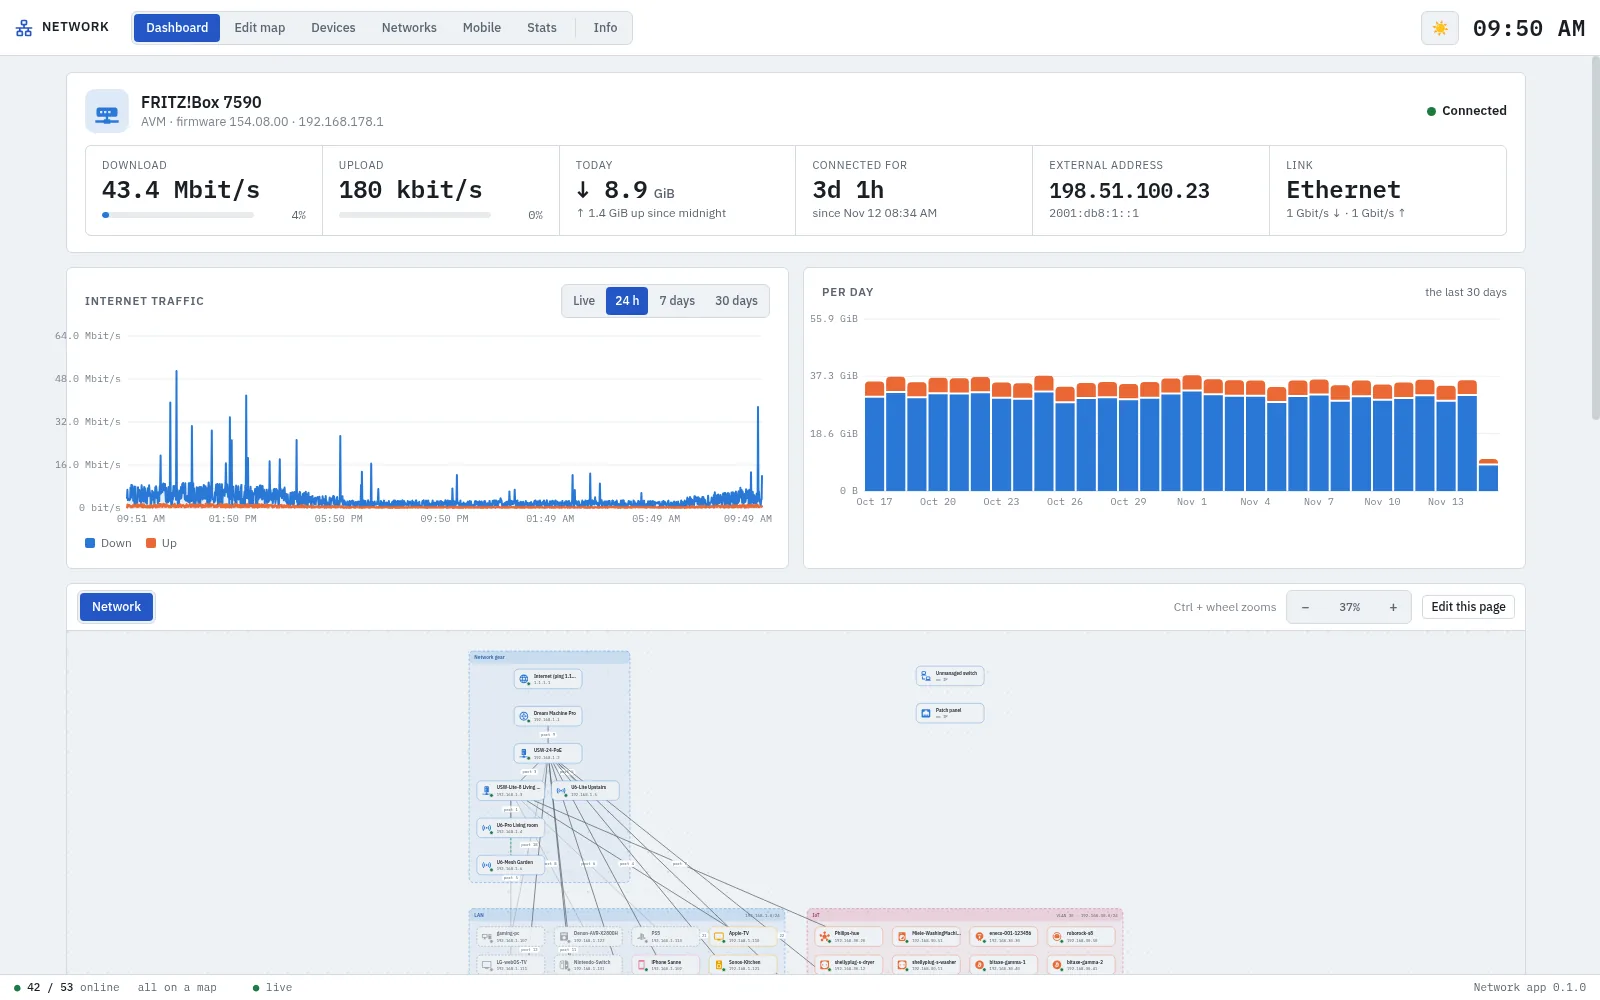
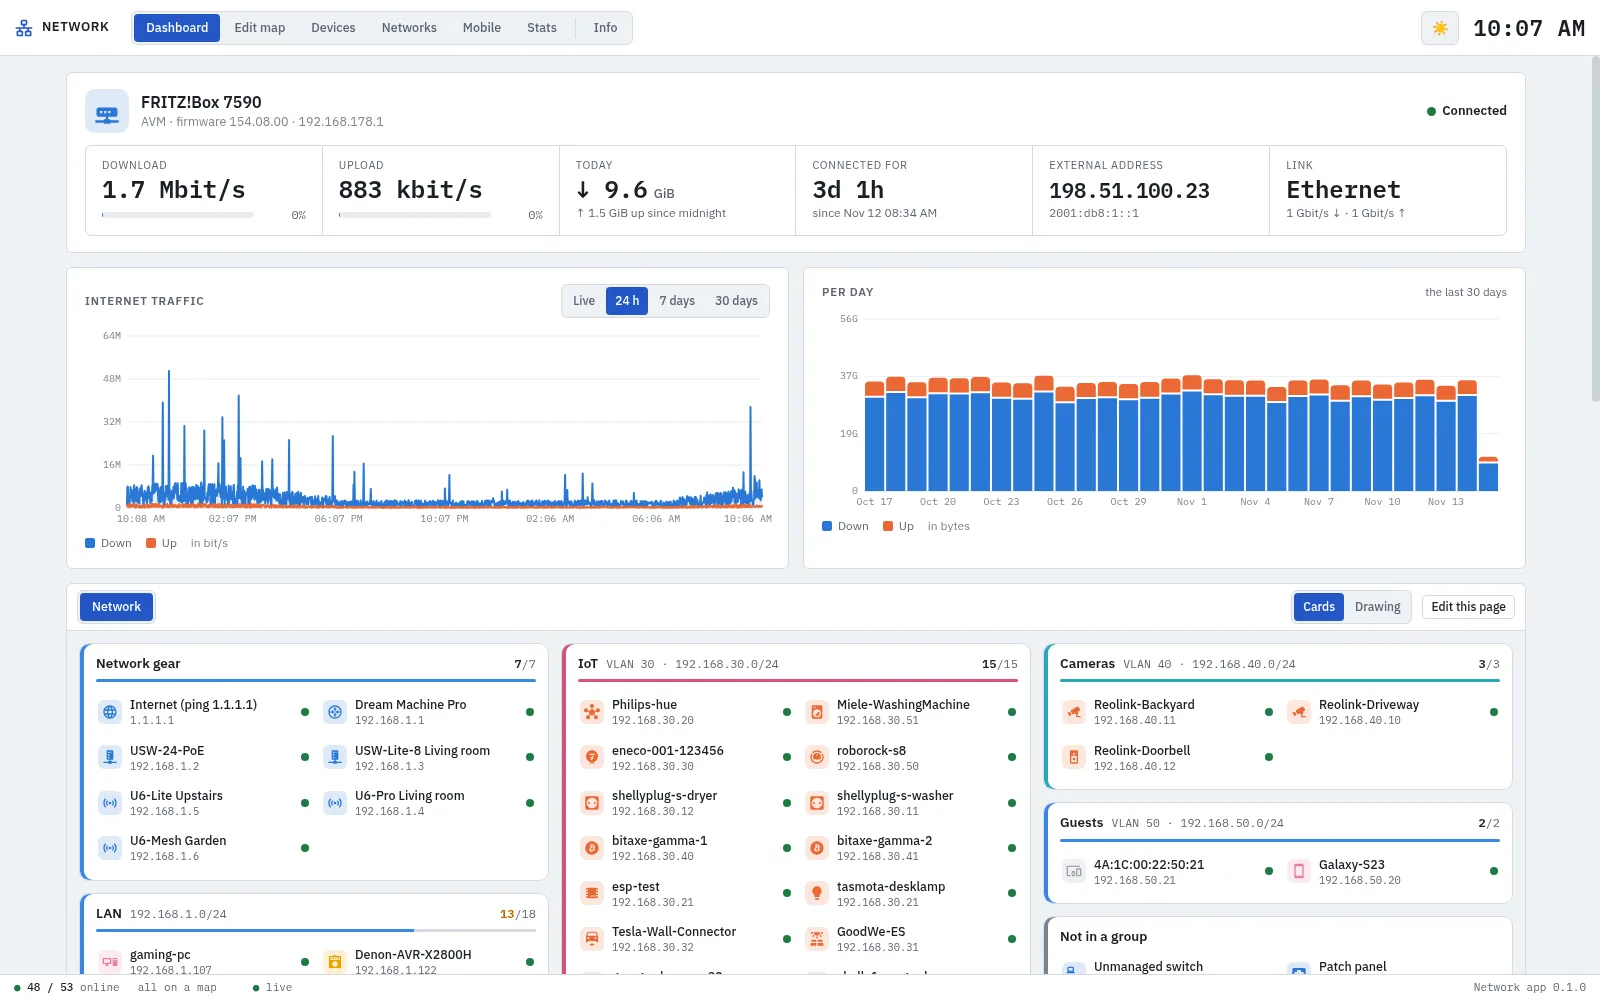
Network: the dashboard's map as cards per group (or the drawing at a readable size); short chart axes
- Cards (default): a card per group in its colour with VLAN/subnet, online x/y with a bar, and
  its devices in drawing order (away ones in red); page tiles go in, devices show their details.
- Drawing: never below 60%; from the top left when the page doesn't fit.
- Chart axes 48M / 37G with the unit by the legend, so the labels fit.

diff --git a/app-network/src/web/view.js b/app-network/src/web/view.js
@@ -1,9 +1,14 @@
-// Network dashboard - the map on the Dashboard: the pages as drawn in the editor, to look at.
-// Nothing can be moved or changed here: drag to move around, Ctrl + wheel or the buttons to zoom,
-// click a device for its details and a page tile to go in. "Edit this page" opens the editor on it.
+// Network dashboard - the map on the Dashboard, to look at, not to change. Two ways to show a page:
+// - Cards (the default): every group of the page as a card with its network, how many of its devices
+//   are online and the devices themselves, in the order they are drawn. Readable at any size.
+// - Drawing: the page as drawn in the editor, at a readable zoom; drag to move around, Ctrl + wheel
+//   or the buttons to zoom.
+// Either way a click on a device shows its details and on a page tile goes in; "Edit this page"
+// opens the editor on it.
 
 const viewState = {
     pageId: stored('view_page', ''),
+    mode: stored('view_mode', 'cards'),
     views: {},          // per page {x, y, k}, fitted the first time a page is shown
     drag: null,
     built: false,
@@ -24,15 +29,20 @@ function viewBuild(el) {
         <div class="map-bar view-bar">
             <div class="map-tabs" id="dv-tabs"></div>
             <span class="spacer"></span>
-            <span class="view-hint muted">Ctrl + wheel zooms</span>
-            <div class="tabs" role="group" aria-label="Zoom" id="dv-zoom">
+            <span class="view-hint muted" data-drawing>Ctrl + wheel zooms</span>
+            <div class="tabs" role="group" aria-label="Zoom" id="dv-zoom" data-drawing>
                 <button type="button" class="tab icon-tab" data-act="out" title="Zoom out">−</button>
                 <button type="button" class="tab zoom-text" data-act="fit" title="Fit the page">100%</button>
                 <button type="button" class="tab icon-tab" data-act="in" title="Zoom in">+</button>
             </div>
+            <div class="tabs" role="group" aria-label="Show as" id="dv-mode">
+                <button type="button" class="tab chip" data-mode="cards" title="Every group as a card with its devices">Cards</button>
+                <button type="button" class="tab chip" data-mode="drawing" title="The page as drawn in the editor">Drawing</button>
+            </div>
             <button type="button" class="btn btn-small" data-act="edit" title="Open this page in the editor">Edit this page</button>
         </div>
-        <div class="map-canvas view-canvas">
+        <div class="ncards" id="dv-cards"></div>
+        <div class="map-canvas view-canvas" data-drawing>
             <svg id="dv-svg" class="view-svg" xmlns="http://www.w3.org/2000/svg" aria-label="Network map">
                 <defs><pattern id="dv-grid" width="${GRID}" height="${GRID}" patternUnits="userSpaceOnUse"><circle cx="1" cy="1" r="1" class="grid-dot"/></pattern></defs>
                 <rect class="map-bg" x="-50000" y="-50000" width="100000" height="100000" fill="url(#dv-grid)"/>
@@ -46,6 +56,7 @@ function viewBuild(el) {
         const b = e.target.closest('button');
         if (!b) return;
         if (b.dataset.page) return viewOpen(b.dataset.page);
+        if (b.dataset.mode) return viewMode(b.dataset.mode);
         const page = viewPage();
         if (!page) return;
         ({
@@ -65,7 +76,12 @@ function viewBuild(el) {
         viewZoom(Math.exp(-e.deltaY * 0.01), e);
     }, {passive: false});
     new ResizeObserver(() => { const p = viewPage(); if (p && viewOf(p).fresh) viewFit(); }).observe(el.querySelector('.view-canvas'));
+    el.querySelector('#dv-cards').addEventListener('click', (e) => {
+        const item = e.target.closest('[data-node]');
+        if (item) viewActivate(item.dataset.node);
+    });
     viewState.built = true;
+    viewMode(viewState.mode, true);
 }
 
 function viewTabs() {
@@ -78,12 +94,32 @@ function viewTabs() {
     if (el.innerHTML !== html) el.innerHTML = html;
 }
 
+function viewMode(mode, quiet) {
+    viewState.mode = mode === 'drawing' ? 'drawing' : 'cards';
+    if (!quiet) store('view_mode', viewState.mode);
+    const drawing = viewState.mode === 'drawing';
+    document.querySelectorAll('#ov-map [data-drawing]').forEach(e => { e.hidden = !drawing; });
+    document.getElementById('dv-cards').hidden = drawing;
+    document.querySelectorAll('#dv-mode [data-mode]').forEach(b => b.classList.toggle('active', b.dataset.mode === viewState.mode));
+    viewDraw();
+    const page = viewPage();
+    if (drawing && page && viewOf(page).fresh) requestAnimationFrame(viewFit);
+}
+
+// A device shows its details, a page tile goes in
+function viewActivate(nodeId) {
+    const n = (viewPage() || {nodes: []}).nodes.find(x => x.id === nodeId);
+    if (!n) return;
+    if (n.page && pageById(n.page)) viewOpen(n.page);
+    else if (n.ref && hostByKey(n.ref)) openHost(n.ref);
+}
+
 function viewOpen(id) {
     viewState.pageId = id;
     store('view_page', id);
     viewTabs();
     viewDraw();
-    if (viewOf(viewPage()).fresh) viewFit();
+    if (viewState.mode === 'drawing' && viewOf(viewPage()).fresh) viewFit();
 }
 
 function viewRender() {
@@ -94,6 +130,12 @@ function viewDraw() {
     const page = viewPage();
     const vp = document.getElementById('dv-vp');
     if (!vp) return;
+    if (viewState.mode === 'cards') {
+        const cards = document.getElementById('dv-cards');
+        const html = page ? viewCardsHtml(page) : '<div class="empty-state">No map yet: draw one in the map editor.</div>';
+        if (cards.innerHTML !== html) cards.innerHTML = html;
+        return;
+    }
     const empty = document.getElementById('dv-empty');
     if (!page) {
         ['dv-groups', 'dv-links', 'dv-nodes', 'dv-texts'].forEach(id => { document.getElementById(id).innerHTML = ''; });
@@ -125,8 +167,12 @@ function viewFit() {
     const v = viewOf(page);
     if (!b) Object.assign(v, {x: 40, y: 40, k: 1});
     else {
-        const k = Math.min(1.2, Math.max(0.1, Math.min((box.width - 40) / b.w, (box.height - 40) / b.h)));
-        Object.assign(v, {k, x: (box.width - b.w * k) / 2 - b.x * k, y: (box.height - b.h * k) / 2 - b.y * k});
+        // Whole when it fits at a readable size; else readable, from its top left
+        const fit = Math.min((box.width - 40) / b.w, (box.height - 40) / b.h);
+        const k = Math.min(1, Math.max(0.6, fit));
+        const x = b.w * k <= box.width - 40 ? (box.width - b.w * k) / 2 - b.x * k : 20 - b.x * k;
+        const y = b.h * k <= box.height - 40 ? (box.height - b.h * k) / 2 - b.y * k : 20 - b.y * k;
+        Object.assign(v, {k, x, y});
     }
     v.fresh = false;
     viewRender();
@@ -173,13 +219,8 @@ function viewUp(e) {
     viewState.drag = null;
     e.currentTarget.classList.remove('panning');
     if (!d || d.moved) return;
-    // A click: a page tile goes in, a device shows its details
     const node = d.target.closest && d.target.closest('[data-node]');
-    if (!node) return;
-    const n = viewPage().nodes.find(x => x.id === node.dataset.node);
-    if (!n) return;
-    if (n.page && pageById(n.page)) viewOpen(n.page);
-    else if (n.ref && hostByKey(n.ref)) openHost(n.ref);
+    if (node) viewActivate(node.dataset.node);
 }
 
 // The dashboard calls this on every change: build once, then only draw
@@ -188,5 +229,69 @@ function viewRefresh(el) {
     viewTabs();
     viewDraw();
     const page = viewPage();
-    if (page && viewOf(page).fresh) requestAnimationFrame(viewFit);
+    if (viewState.mode === 'drawing' && page && viewOf(page).fresh) requestAnimationFrame(viewFit);
+}
+
+// ---------------------------------------------------------------------
+// Cards
+// ---------------------------------------------------------------------
+// A group's card: its devices in the order they are drawn (top to bottom, left to right)
+function viewCardsHtml(page) {
+    const order = (a, b) => (a.y - b.y) || (a.x - b.x);
+    const used = new Set();
+    const cards = [...page.groups].sort(order).map(g => {
+        const inside = page.nodes.filter(n => !used.has(n.id) && inGroup(n, g)).sort(order);
+        inside.forEach(n => used.add(n.id));
+        const net = g.network ? networkById(g.network) : null;
+        const sub = net ? [net.vlan ? `VLAN ${net.vlan}` : '', net.subnet].filter(Boolean).join(' · ') : (g.note || '');
+        return viewCardHtml(g.name || 'Group', g.color || (net && net.color) || GROUP_COLORS[7], sub, inside);
+    });
+    const rest = page.nodes.filter(n => !used.has(n.id)).sort(order);
+    if (rest.length) cards.push(viewCardHtml(page.groups.length ? 'Not in a group' : page.name, GROUP_COLORS[7], '', rest));
+    if (!cards.length) return '<div class="empty-state">This page is empty: place devices on it in the map editor.</div>';
+    return cards.join('');
+}
+
+function viewCardHtml(name, color, sub, nodes) {
+    let total = 0, up = 0;
+    nodes.forEach(n => {
+        if (n.page) { const s = pageSummary(pageById(n.page) || {nodes: []}); total += s.total; up += s.up; return; }
+        const h = nodeHost(n);
+        if (h) { total++; if (h.up) up++; }
+    });
+    const away = total - up;
+    return `<section class="ncard" style="--g:${attr(color)}">
+        <header class="ncard-head">
+            <span class="ncard-name">${escapeHtml(name)}</span>
+            ${sub ? `<span class="ncard-sub">${escapeHtml(sub)}</span>` : ''}
+            <span class="spacer"></span>
+            ${total ? `<span class="ncard-count${away ? ' has-away' : ''}" title="${away ? `${away} away` : 'All online'}"><b>${up}</b>/${total}</span>` : ''}
+        </header>
+        ${total ? `<div class="ncard-bar" aria-hidden="true"><i style="width:${(up / total * 100).toFixed(1)}%"></i></div>` : ''}
+        <div class="ncard-items">${nodes.map(viewItemHtml).join('')}</div>
+    </section>`;
+}
+
+function viewItemHtml(n) {
+    const h = nodeHost(n);
+    const kind = nodeKind(n);
+    let state = '', right = '';
+    if (n.page) {
+        const s = pageSummary(pageById(n.page) || {nodes: []});
+        state = s.downInfra ? 'away' : '';
+        right = `<span class="nitem-tile">${s.up}/${s.total} ›</span>`;
+    } else if (h) {
+        state = h.up ? 'up' : h.up === false ? 'away' : 'unknown';
+        right = `<span class="sdot ${h.up ? 'ok' : h.up === false ? 'bad' : ''}"></span>`;
+    } else if (n.ref) {
+        state = 'gone';
+    }
+    const clickable = n.page || h;
+    const title = [nodeLabel(n), h ? [h.ip, h.up ? 'online' : h.up === false ? `away ${fmtAgo(h.last_changed)}` : 'unknown'].filter(Boolean).join(' · ') : ''].filter(Boolean).join('\n');
+    const tag = clickable ? 'button type="button"' : 'div';
+    return `<${tag} class="nitem ${state}" data-node="${attr(n.id)}" title="${attr(title)}">
+        ${iconHtml(nodeIcon(n), 'small', kind)}
+        <span class="nitem-text"><span class="nitem-name">${escapeHtml(nodeLabel(n))}</span><span class="nitem-sub">${escapeHtml(nodeSub(n, viewPage()) || kindLabel(kind))}</span></span>
+        ${right}
+    </${clickable ? 'button' : 'div'}>`;
 }

diff --git a/app-network/src/web/internet.js b/app-network/src/web/internet.js
@@ -20,6 +20,19 @@ function fmtBits(bitsPerSecond) {
     return missing(bitsPerSecond) ? '–' : fmtRate(bitsPerSecond / 8).replace(/\.0 /, ' ');
 }
 
+// The axis of a chart: short, the unit is under the chart (48M for 48 Mbit/s, 37G for 37 GiB)
+function compact(value, steps) {
+    for (const [size, unit] of steps) {
+        if (Math.abs(value) >= size) {
+            const v = value / size;
+            return `${num(v, v < 10 && v % 1 ? 1 : 0)}${unit}`;
+        }
+    }
+    return num(value);
+}
+const rateTick = bytesPerSecond => compact(bytesPerSecond * 8, [[1e9, 'G'], [1e6, 'M'], [1e3, 'k']]);
+const bytesTick = bytes => compact(bytes, [[2 ** 40, 'T'], [2 ** 30, 'G'], [2 ** 20, 'M'], [2 ** 10, 'k']]);
+
 async function loadInternet() {
     if (internet.loading) return internet.loading;
     const hours = internet.period === 'live' ? 24 : Number(internet.period);
@@ -124,7 +137,7 @@ function drawInternetTraffic() {
         ],
         xTicks: timeAxisTicks(src.x[0], src.x[src.x.length - 1], el.clientWidth < 520 ? 3 : 6),
         formatX: t => span > 2 * 86400 ? fmtDateTime(t) : live ? new Date(t * 1000).toLocaleTimeString() : fmtTime(t),
-        formatY: v => fmtRate(v), formatTick: v => fmtRate(v),
+        formatY: v => fmtRate(v), formatTick: rateTick,
         empty: live ? 'Collecting the first readings…' : 'No traffic recorded yet: it fills from now on',
     });
 }
@@ -136,7 +149,7 @@ function drawInternetDays() {
     barChart(el, {
         data: days.map(r => ({label: fmtDay(r.ts), tipTitle: new Date(r.ts * 1000).toLocaleDateString([], {weekday: 'long', day: 'numeric', month: 'long'}), values: [r.down, r.up]})),
         series: [{name: 'Down', color: DOWN_COLOR}, {name: 'Up', color: UP_COLOR}],
-        height: 200, format: v => fmtBytes(v), formatTick: v => fmtBytes(v), labelWidth: 52,
+        height: 200, format: v => fmtBytes(v), formatTick: bytesTick, labelWidth: 52,
         empty: 'No days recorded yet',
     });
 }
@@ -161,8 +174,8 @@ function renderInternet(rebuild) {
         el.innerHTML = `
             <div class="panel net-panel"><div class="panel-body" id="net-head"></div></div>
             <div class="dash-grid net-charts">
-                ${panel('Internet traffic', chipsHtml('net-period', INTERNET_PERIODS, internet.period, 'Period'), `<div id="net-traffic" class="chart"></div><div class="legend">${legendHtml([{name: 'Down', color: DOWN_COLOR}, {name: 'Up', color: UP_COLOR}])}</div>`)}
-                ${panel('Per day', 'the last 30 days', `<div id="net-days" class="chart"></div>`)}
+                ${panel('Internet traffic', chipsHtml('net-period', INTERNET_PERIODS, internet.period, 'Period'), `<div id="net-traffic" class="chart"></div><div class="legend">${legendHtml([{name: 'Down', color: DOWN_COLOR}, {name: 'Up', color: UP_COLOR}])}<span class="muted">in bit/s</span></div>`)}
+                ${panel('Per day', 'the last 30 days', `<div id="net-days" class="chart"></div><div class="legend">${legendHtml([{name: 'Down', color: DOWN_COLOR}, {name: 'Up', color: UP_COLOR}])}<span class="muted">in bytes</span></div>`)}
             </div>`;
         bindChips('net-period', key => {
             internet.period = key;

diff --git a/app-network/src/web/network.css b/app-network/src/web/network.css
@@ -268,3 +268,34 @@ table.data.dev-table .meter { min-width: 120px; }
     .view-hint { display: none; }
     .view-canvas { height: 60vh; }
 }
+
+/* The map on the Dashboard as cards: a group per card, in its colour */
+.view-bar #dv-mode { margin-left: 2px; }
+.ncards { columns: 3 320px; column-gap: 12px; padding: 12px; background: var(--ha-background); }
+.ncards > .empty-state { column-span: all; }
+.ncard { break-inside: avoid; margin: 0 0 12px; background: var(--ha-card-background); border: var(--card-border); border-radius: 10px; overflow: hidden; box-shadow: inset 4px 0 0 var(--g); }
+.ncard-head { display: flex; align-items: baseline; gap: 8px; padding: 10px 12px 6px 16px; flex-wrap: wrap; }
+.ncard-name { font-weight: 600; font-size: 13.5px; }
+.ncard-sub { font-family: var(--mono); font-size: 11.5px; color: var(--secondary-text-color); }
+.ncard-count { font-family: var(--mono); font-size: 12px; color: var(--secondary-text-color); }
+.ncard-count b { color: var(--primary-text-color); font-weight: 600; }
+.ncard-count.has-away b { color: var(--warning-color); }
+.ncard-bar { height: 3px; margin: 0 12px 8px 16px; background: var(--divider-color); border-radius: 2px; overflow: hidden; }
+.ncard-bar i { display: block; height: 100%; background: var(--g); }
+.ncard-items { display: grid; grid-template-columns: repeat(auto-fill, minmax(150px, 1fr)); gap: 2px; padding: 0 8px 10px 12px; }
+.nitem { display: flex; align-items: center; gap: 8px; min-width: 0; padding: 5px 6px; border: 0; border-radius: 7px; background: none; color: inherit; font: inherit; text-align: left; }
+button.nitem { cursor: pointer; }
+button.nitem:hover, button.nitem:focus-visible { background: var(--hover-bg); outline: none; }
+.nitem .kicon { flex: none; }
+.nitem-text { display: flex; flex-direction: column; min-width: 0; flex: 1; }
+.nitem-name { font-size: 12.5px; font-weight: 500; white-space: nowrap; overflow: hidden; text-overflow: ellipsis; }
+.nitem-sub { font-family: var(--mono); font-size: 10.5px; color: var(--secondary-text-color); white-space: nowrap; overflow: hidden; text-overflow: ellipsis; }
+.nitem .sdot { flex: none; }
+.nitem.away .nitem-name { color: var(--danger-color); }
+.nitem.away .kicon, .nitem.gone .kicon { opacity: 0.55; }
+.nitem.gone .nitem-name { color: var(--secondary-text-color); text-decoration: line-through; }
+.nitem-tile { flex: none; font-family: var(--mono); font-size: 11px; color: var(--secondary-text-color); }
+@media (max-width: 700px) {
+    .ncards { padding: 8px; }
+    .ncard-items { grid-template-columns: 1fr 1fr; }
+}

diff --git a/app-network/DOCS.md b/app-network/DOCS.md
@@ -24,7 +24,7 @@ log_level: info
 
 ## The pages
 
-- **Dashboard**: your internet connection (see below), then the map as you drew it, to look at: drag to move around, Ctrl + wheel or the buttons to zoom, click a device for its details and a page tile to go in. **Edit this page** opens it in the editor. Below the map: how many devices are online, what needs a look (network gear that is away, two devices on one IP address, unstable, new and long-gone devices, devices on no map yet), the last 24 hours, the latest comings and goings.
+- **Dashboard**: your internet connection (see below), then a page of your map, to look at. **Cards** shows every group of the page as a card in its colour, with its VLAN and subnet, how many of its devices are online and the devices themselves (away ones in red), in the order you drew them. **Drawing** shows the page as drawn, at a size you can read: drag to move around, Ctrl + wheel or the buttons to zoom. Either way, click a device for its details and a page tile to go in; **Edit this page** opens it in the editor. Below the map: how many devices are online, what needs a look (network gear that is away, two devices on one IP address, unstable, new and long-gone devices, devices on no map yet), the last 24 hours, the latest comings and goings.
 - **Edit map**: the drawing. See below.
 - **Devices**: every device in a table, to filter, search, sort and edit. Click one to edit it; tick several to give them one kind, network or connection.
 - **Networks**: your networks and VLANs. A device is in the network of its IP address unless you pick another for it. The app suggests a network for every private /24 subnet it sees, with a guess of what it is for (IoT, cameras, servers, guests). A subnet's grid shows every address: online, away, free, or used by two devices at once.
